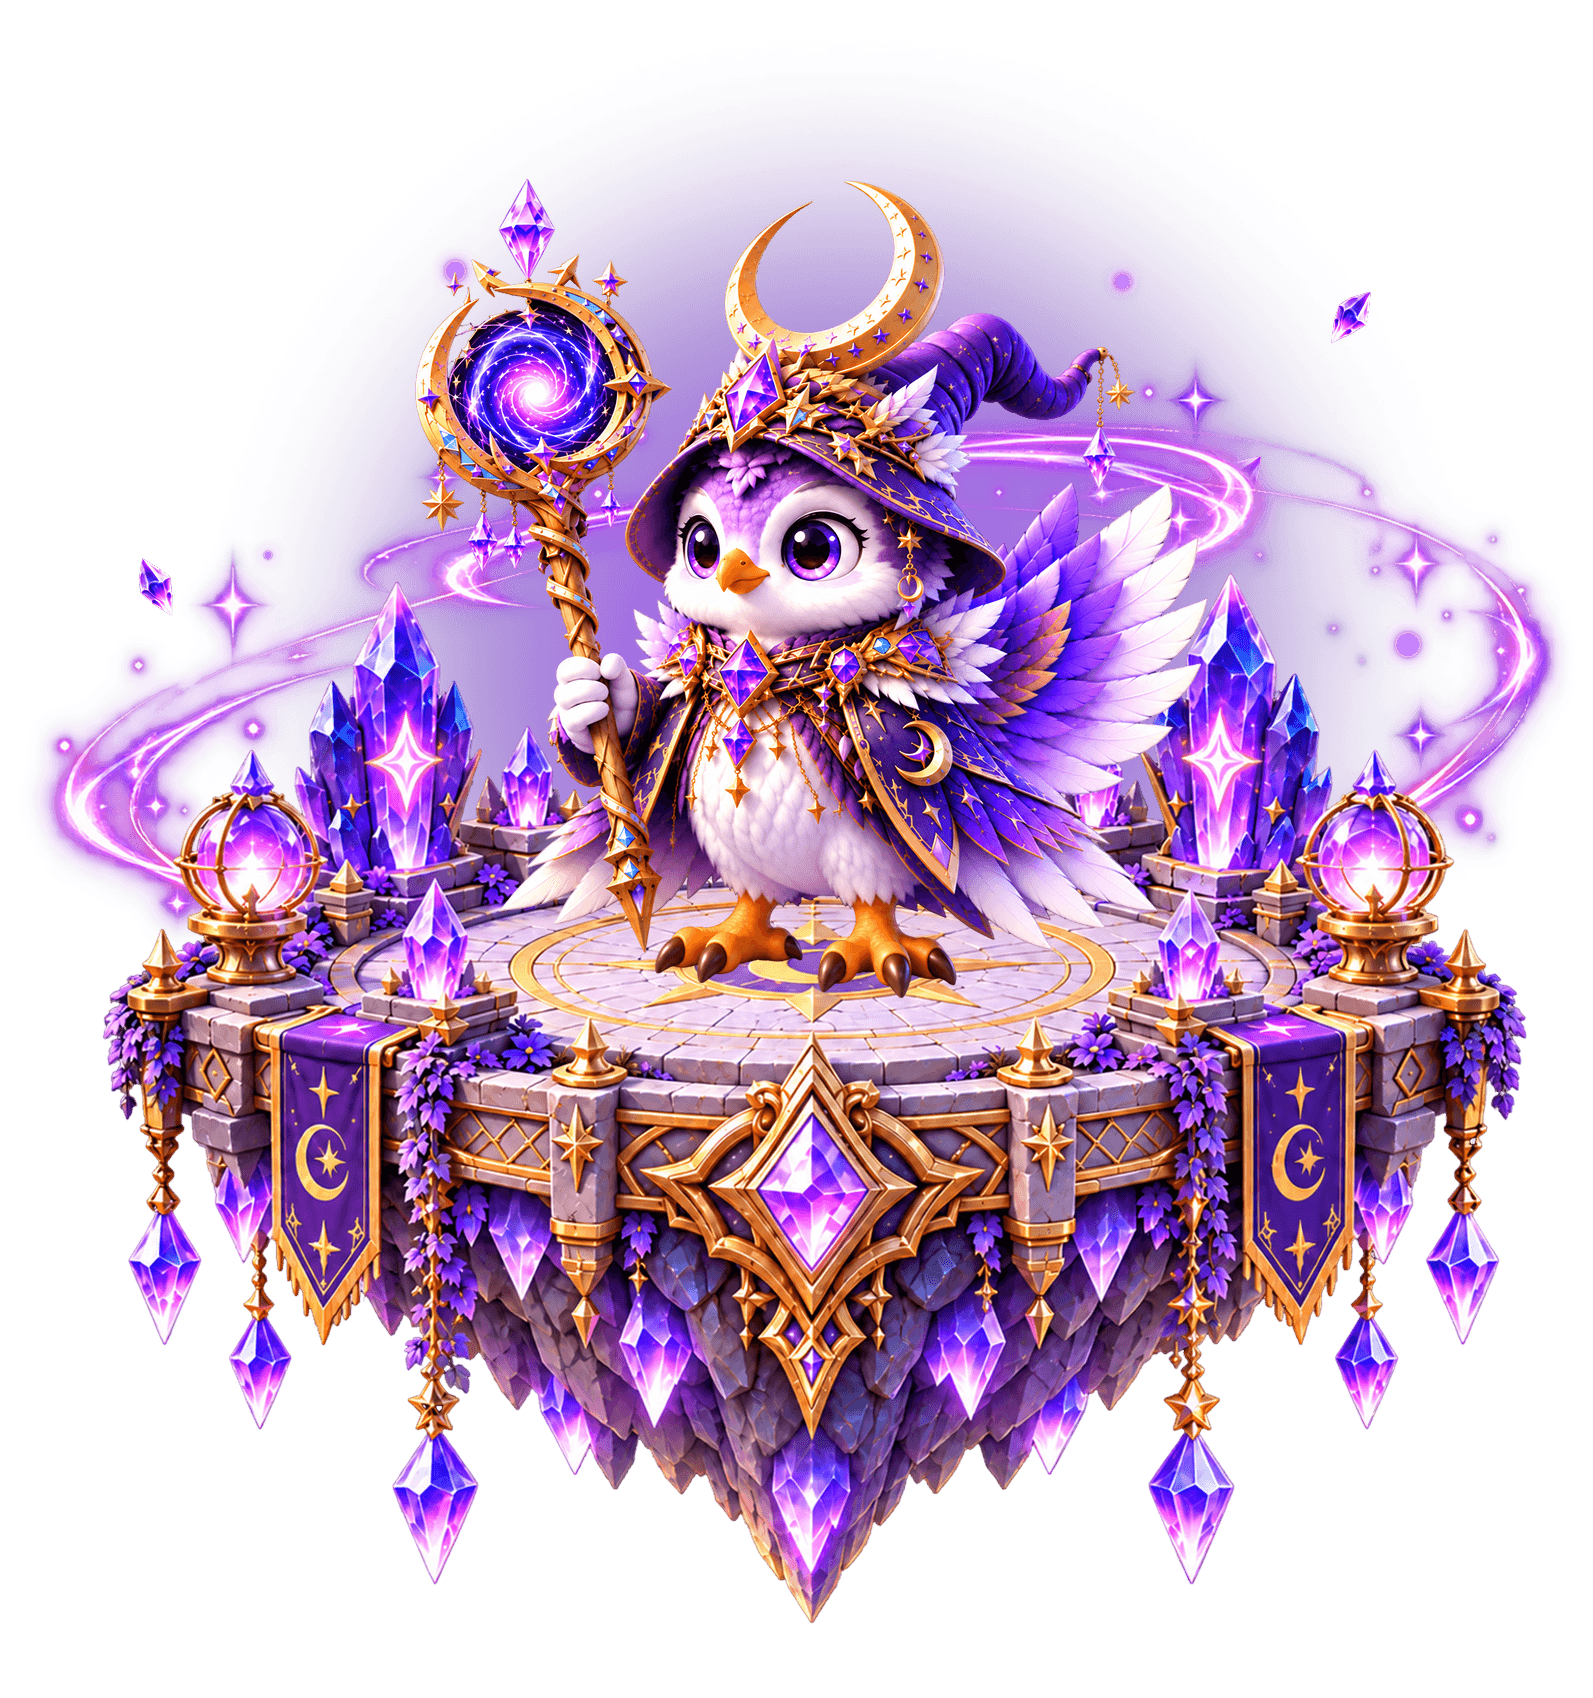
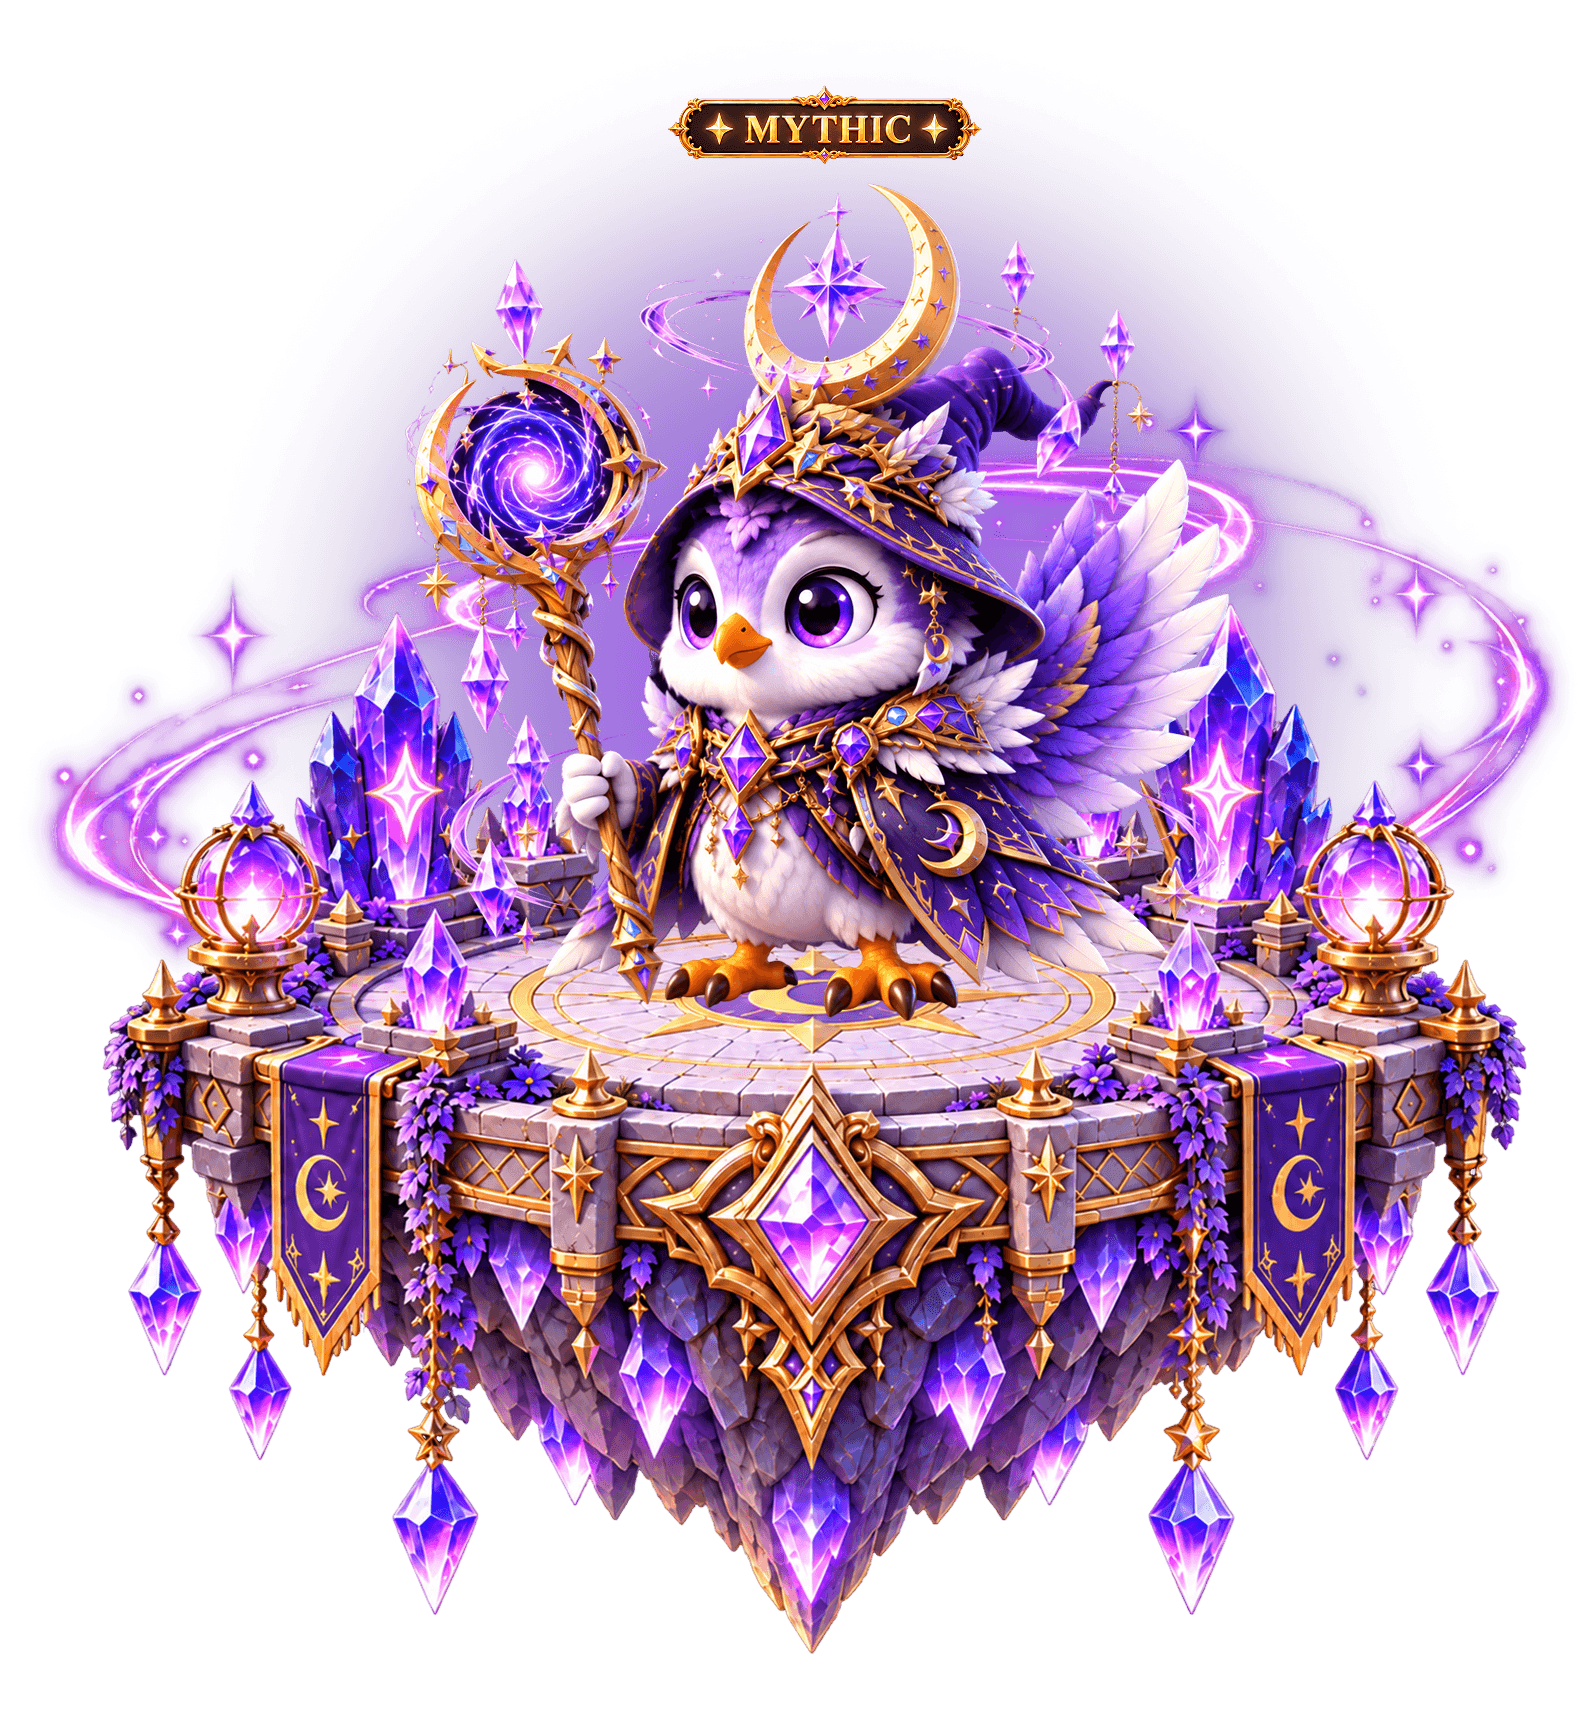
test 1 img header soarling

diff --git a/app/globals.css b/app/globals.css
@@ -430,12 +430,12 @@
 /* Figma node 929:155 — connected owner evolution state. */
 .hero-wallet-state-loading{width:448px;height:230px;flex:none;visibility:hidden}.hero-art.is-state-loading .egg-glow-new,.hero-art.is-state-loading .island-new,.hero-art.is-state-loading .egg-new,.hero-art.is-state-loading .bird-new,.hero-art.is-state-loading .egg-burst-field{visibility:hidden}
 .bird-owner-wrap{position:relative;display:flex;width:448px;flex-direction:column;align-items:center;gap:8px}
-.bird-evolution-card{position:relative;width:448px;height:154px;overflow:hidden;padding:0;color:#fff;font-family:"Be Vietnam Pro",sans-serif;text-align:left}
+.bird-evolution-card{position:relative;width:448px;height:154px;overflow:hidden;padding:0;color:var(--text-on-dark-primary);font-family:"Be Vietnam Pro",sans-serif;text-align:left}
 .bird-evolution-frame{position:absolute;z-index:0;inset:0;width:100%;height:100%;object-fit:fill;pointer-events:none}.bird-evolution-content{position:absolute;z-index:1;inset:0;display:flex;flex-direction:column;justify-content:center;padding:0 30px; top: 10px}
-.bird-stage-heading{display:flex;align-items:flex-start;justify-content:space-between}.bird-stage-heading>div{display:flex;flex-direction:column;gap:7px}.bird-stage-heading>div:last-child{text-align:right}.bird-stage-heading strong{font-size:14px;font-weight:500;line-height:1}.bird-stage-heading span{color:#dacff2;font-size:11px;font-weight:400;line-height:1}
+.bird-stage-heading{display:flex;align-items:flex-start;justify-content:space-between}.bird-stage-heading>div{display:flex;flex-direction:column;gap:7px}.bird-stage-heading>div:last-child{text-align:right}.bird-stage-heading strong{font-size:14px;font-weight:500;line-height:1}.bird-stage-heading span{color:var(--text-on-dark-secondary);font-size:12px;font-weight:400;line-height:1}
 .bird-checkin-track{display:flex;width:100%;margin-top:16px;align-items:center}.bird-checkin-step{display:flex;min-width:0;flex:1;align-items:center}.bird-checkin-step.is-first{flex:0 0 auto}.bird-checkin-marker{position:relative;z-index:1;width:24px;height:24px;flex:none;object-fit:contain}.bird-checkin-line{position:relative;z-index:0;width:auto;height:4px;min-width:0;flex:1;margin-inline:-2px;object-fit:fill}
 .bird-checkin-step{position:relative}.bird-checkin-button>span{display:flex;align-items:center;justify-content:center;gap:8px}.bird-checkin-step.is-newly-complete::after{position:absolute;z-index:2;top:50%;right:-4px;width:32px;height:32px;border:2px solid #d6a0ff;border-radius:50%;content:"";pointer-events:none;animation:checkin-ripple 600ms ease-out both}.bird-checkin-step.is-first.is-newly-complete::after{right:auto;left:-4px}.bird-checkin-step.is-newly-complete .bird-checkin-marker{animation:checkin-marker-awaken 650ms ease-out both}.bird-checkin-step.is-newly-complete .bird-checkin-line{animation:checkin-line-awaken 600ms ease-out both}@keyframes checkin-ripple{from{opacity:.9;transform:translateY(-50%) scale(.5)}to{opacity:0;transform:translateY(-50%) scale(1.8)}}@keyframes checkin-marker-awaken{0%{transform:scale(.8);filter:drop-shadow(0 0 0 #b66bff)}45%{transform:scale(1.3);filter:drop-shadow(0 0 9px #d7a7ff)}100%{transform:scale(1);filter:drop-shadow(0 0 5px #aa64f5)}}@keyframes checkin-line-awaken{from{clip-path:inset(0 100% 0 0);filter:brightness(1)}to{clip-path:inset(0);filter:brightness(1.25)}}@media(prefers-reduced-motion:reduce){.bird-checkin-step.is-newly-complete::after{display:none}.bird-checkin-step.is-newly-complete .bird-checkin-marker,.bird-checkin-step.is-newly-complete .bird-checkin-line{animation:none}}
-.bird-checkin-message{display:flex;min-height:20px;margin:12px 0 0;align-items:center;gap:8px;color:#e6dcf8;font-size:12px;font-weight:400;line-height:20px}.bird-checkin-message>img{display:block;width:20px;height:20px;flex:none;object-fit:contain}.bird-checkin-message>p{margin:0;font:inherit;transform:translateY(2px)}
+.bird-checkin-message{display:flex;min-height:20px;margin:12px 0 0;align-items:center;gap:8px;color:var(--text-on-dark-default);font-size:12px;font-weight:400;line-height:20px}.bird-checkin-message>img{display:block;width:20px;height:20px;flex:none;object-fit:contain}.bird-checkin-message>p{margin:0;font:inherit;transform:translateY(2px)}
 .bird-checkin-button{width:340px;height:66px;margin-top:8px;font-size:24px}.bird-checkin-button:disabled{cursor:not-allowed;filter:saturate(.7);opacity:.72}.bird-checkin-button:disabled:hover{transform:none}
 .bird-checkin-button.is-countdown{font-size:19px}@media(max-width:460px){.bird-checkin-button.is-countdown{font-size:15px}}
 .hero-copy>.bird-owner-wrap .login-note{display:block;width:auto;margin:0;color:var(--text-secondary-strong);font-family:"Be Vietnam Pro",sans-serif;font-size:14px;font-weight:400;white-space:nowrap}.bird-checkin-error{max-width:448px;margin:0;color:#8a2453;font-family:"Be Vietnam Pro",sans-serif;font-size:11px;text-align:center}
@@ -452,27 +452,29 @@
 @media(max-width:440px){.hero-connect,.bird-checkin-button,.bird-checkin-button.is-countdown{width:290px;height:62px;font-size:18px}}
 /* Completed Soarling hero uses the same desktop .hero-copy position as Get Your Egg. */
 .hero-new.is-final-form .hero-copy h1{width:100%;font-family:"Playfair Display",serif;font-size:60px;font-weight:600;line-height:1.15;letter-spacing:0}
-.final-form-panel{display:flex;width:100%;flex-direction:column;align-items:center}
-.final-stage-card{position:relative;width:480px;height:175px;flex:none;color:#fff9f3}
+.final-form-panel{display:flex;width:100%;flex-direction:column;align-items:center; gap: 16px;}
+.final-stage-card{position:relative;width:480px;height:175px;flex:none;color:var(--text-on-dark-primary)}
 .final-stage-frame{position:absolute;inset:0;width:100%;height:100%;object-fit:fill}
 .final-stage-journey{position:relative;z-index:1;display:grid;height:100%;grid-template-columns:76px 85px 76px 85px 100px;justify-content: center;align-content:center;column-gap: 0;padding:24px 25px 22px}
 .final-stage-item{display:flex;min-width:0;flex-direction:column;align-items:center;justify-content:end;gap:2px;font-family:"Be Vietnam Pro",sans-serif;font-size:15px;font-weight:500;line-height:1.2}
 .final-stage-picture{display:grid;width:96px;height:90px;overflow:hidden;place-items:end center}
 .final-stage-picture img{display:block;width:auto;height:auto;max-width:100%;max-height:100%;object-fit:contain}
 .final-stage-item:first-child .final-stage-picture img{height:65px}
-.final-stage-item:nth-of-type(2) .final-stage-picture img{height:65px}
+.final-stage-picture .final-stage-fledgling{height:85px}
 .final-stage-item:last-child .final-stage-picture img{height:90px}
 .final-stage-connector{align-self:center;margin-top:28px}
 .final-stage-connector img{display:block;width:100%;height:auto;filter:drop-shadow(0 0 5px rgba(255,222,139,.5))}
-.final-form-actions{display:flex;gap:20px;margin-top:28px}
+.final-form-actions{display:flex;gap:12px}
 .final-form-action{width:300px;height:60px;font-family:"Be Vietnam Pro",sans-serif;font-size:20px;font-weight:500;text-decoration:none;transition:filter 180ms ease}
 .figma-button.final-form-action:not(:disabled):hover,.figma-button.final-form-action:not(:disabled):active{transform:none;filter:brightness(1.08)}
 .final-form-action-secondary{overflow:hidden;border-radius:999px;color:var(--text-default)}
 .final-form-action-secondary>img{top:-25.59%;left:-1.92%;width:103.94%;height:153.97%}
 .final-form-action-secondary>span:not(.google-hitbox){text-shadow:none}
-.final-form-note{margin:12px 0 0;color:var(--text-secondary-strong);font-family:"Be Vietnam Pro",sans-serif;font-size:14px;font-weight:400;line-height:1.4;text-align:center}
+.final-form-note{margin:0;color:var(--text-secondary-strong);font-family:"Be Vietnam Pro",sans-serif;font-size:14px;font-weight:400;line-height:1.4;text-align:center}
 .final-form-rarity{--final-rarity-color:#ffe099;position:absolute;z-index:9;top:-8px;left:calc(73% - 75px);display:grid;min-width:150px;height:31px;padding:0 12px;border:2px solid #efa92b;border-radius:7px;background:linear-gradient(180deg,#422073 0%,#160c3f 55%,#32205b 100%);box-shadow:0 0 0 2px #6b338f,0 3px 10px #1b0d54a8,inset 0 0 8px #ffc35280;color:var(--final-rarity-color);font-family:"Be Vietnam Pro",sans-serif;font-size:15px;font-weight:600;letter-spacing:.11em;text-transform:uppercase;white-space:nowrap;place-items:center;pointer-events:none}
 .final-form-rarity.rarity-common{--final-rarity-color:#86efac}.final-form-rarity.rarity-rare{--final-rarity-color:#93c5fd}.final-form-rarity.rarity-epic{--final-rarity-color:#f0abfc}.final-form-rarity.rarity-legendary{--final-rarity-color:#fca5a5}
+/* Mythic hero artwork already includes its rarity badge. */
+.hero-new.is-final-form:has(.hero-art.bird-owned.is-mythic) .final-form-rarity{display:none}
 .hero-new.is-final-form:has(.hero-art.bird-owned)>.spark-field,.hero-new.is-final-form:has(.hero-art.bird-owned)>.balloon{display:block}
 @media(max-width:760px){
   .landing:has(.hero-new.is-final-form){min-height:1320px}
@@ -484,7 +486,7 @@
   .final-stage-journey{padding:3.75% 5.2% 4.5%;grid-template-columns:76px 85px 76px 85px 100px;justify-content:center;align-content:center;column-gap:0}
   .final-stage-item{font-size:clamp(10px,2.7vw,14px)}
   .final-stage-picture{width:100%;height:clamp(54px,17vw,90px)}
-  .final-stage-picture img,.final-stage-item:first-child .final-stage-picture img,.final-stage-item:nth-of-type(2) .final-stage-picture img,.final-stage-item:last-child .final-stage-picture img{max-width:100%;max-height:100%}
+  .final-stage-picture img,.final-stage-item:first-child .final-stage-picture img,.final-stage-picture .final-stage-fledgling,.final-stage-item:last-child .final-stage-picture img{max-width:100%;max-height:100%}
   .final-form-actions{flex-wrap:wrap;justify-content:center;gap:12px;margin-top:20px}
   .final-form-note{max-width:90vw;font-size:12px}
   .final-form-rarity{top:565px;left:50%;transform:translateX(-50%)}

diff --git a/app/eggoria-landing.tsx b/app/eggoria-landing.tsx
@@ -1931,7 +1931,7 @@ export default function EggoriaLanding({
               <div className="final-stage-journey">
                 <div className="final-stage-item"><span className="final-stage-picture"><img src={asset(landFinalStageAssets[ownedBird.land]?.[0] ?? landFinalStageAssets[2][0])} alt="" /></span><span>Hatchling</span></div>
                 <span className="final-stage-connector" aria-hidden="true"><img src={asset("final-stage-light.png")} alt="" /></span>
-                <div className="final-stage-item"><span className="final-stage-picture"><img src={asset(landFinalStageAssets[ownedBird.land]?.[1] ?? landFinalStageAssets[2][1])} alt="" /></span><span>Fledgling</span></div>
+                <div className="final-stage-item"><span className="final-stage-picture"><img className="final-stage-fledgling" src={asset(landFinalStageAssets[ownedBird.land]?.[1] ?? landFinalStageAssets[2][1])} alt="" /></span><span>Fledgling</span></div>
                 <span className="final-stage-connector" aria-hidden="true"><img src={asset("final-stage-light.png")} alt="" /></span>
                 <div className="final-stage-item"><span className="final-stage-picture"><img src={ownedBird.rarity === 4 ? asset(landFinalStageAssets[ownedBird.land]?.[2] ?? landFinalStageAssets[2][2]) : asset(getSoarlingResultAsset(ownedBird))} alt="" /></span><span>Soarling</span></div>
               </div>
